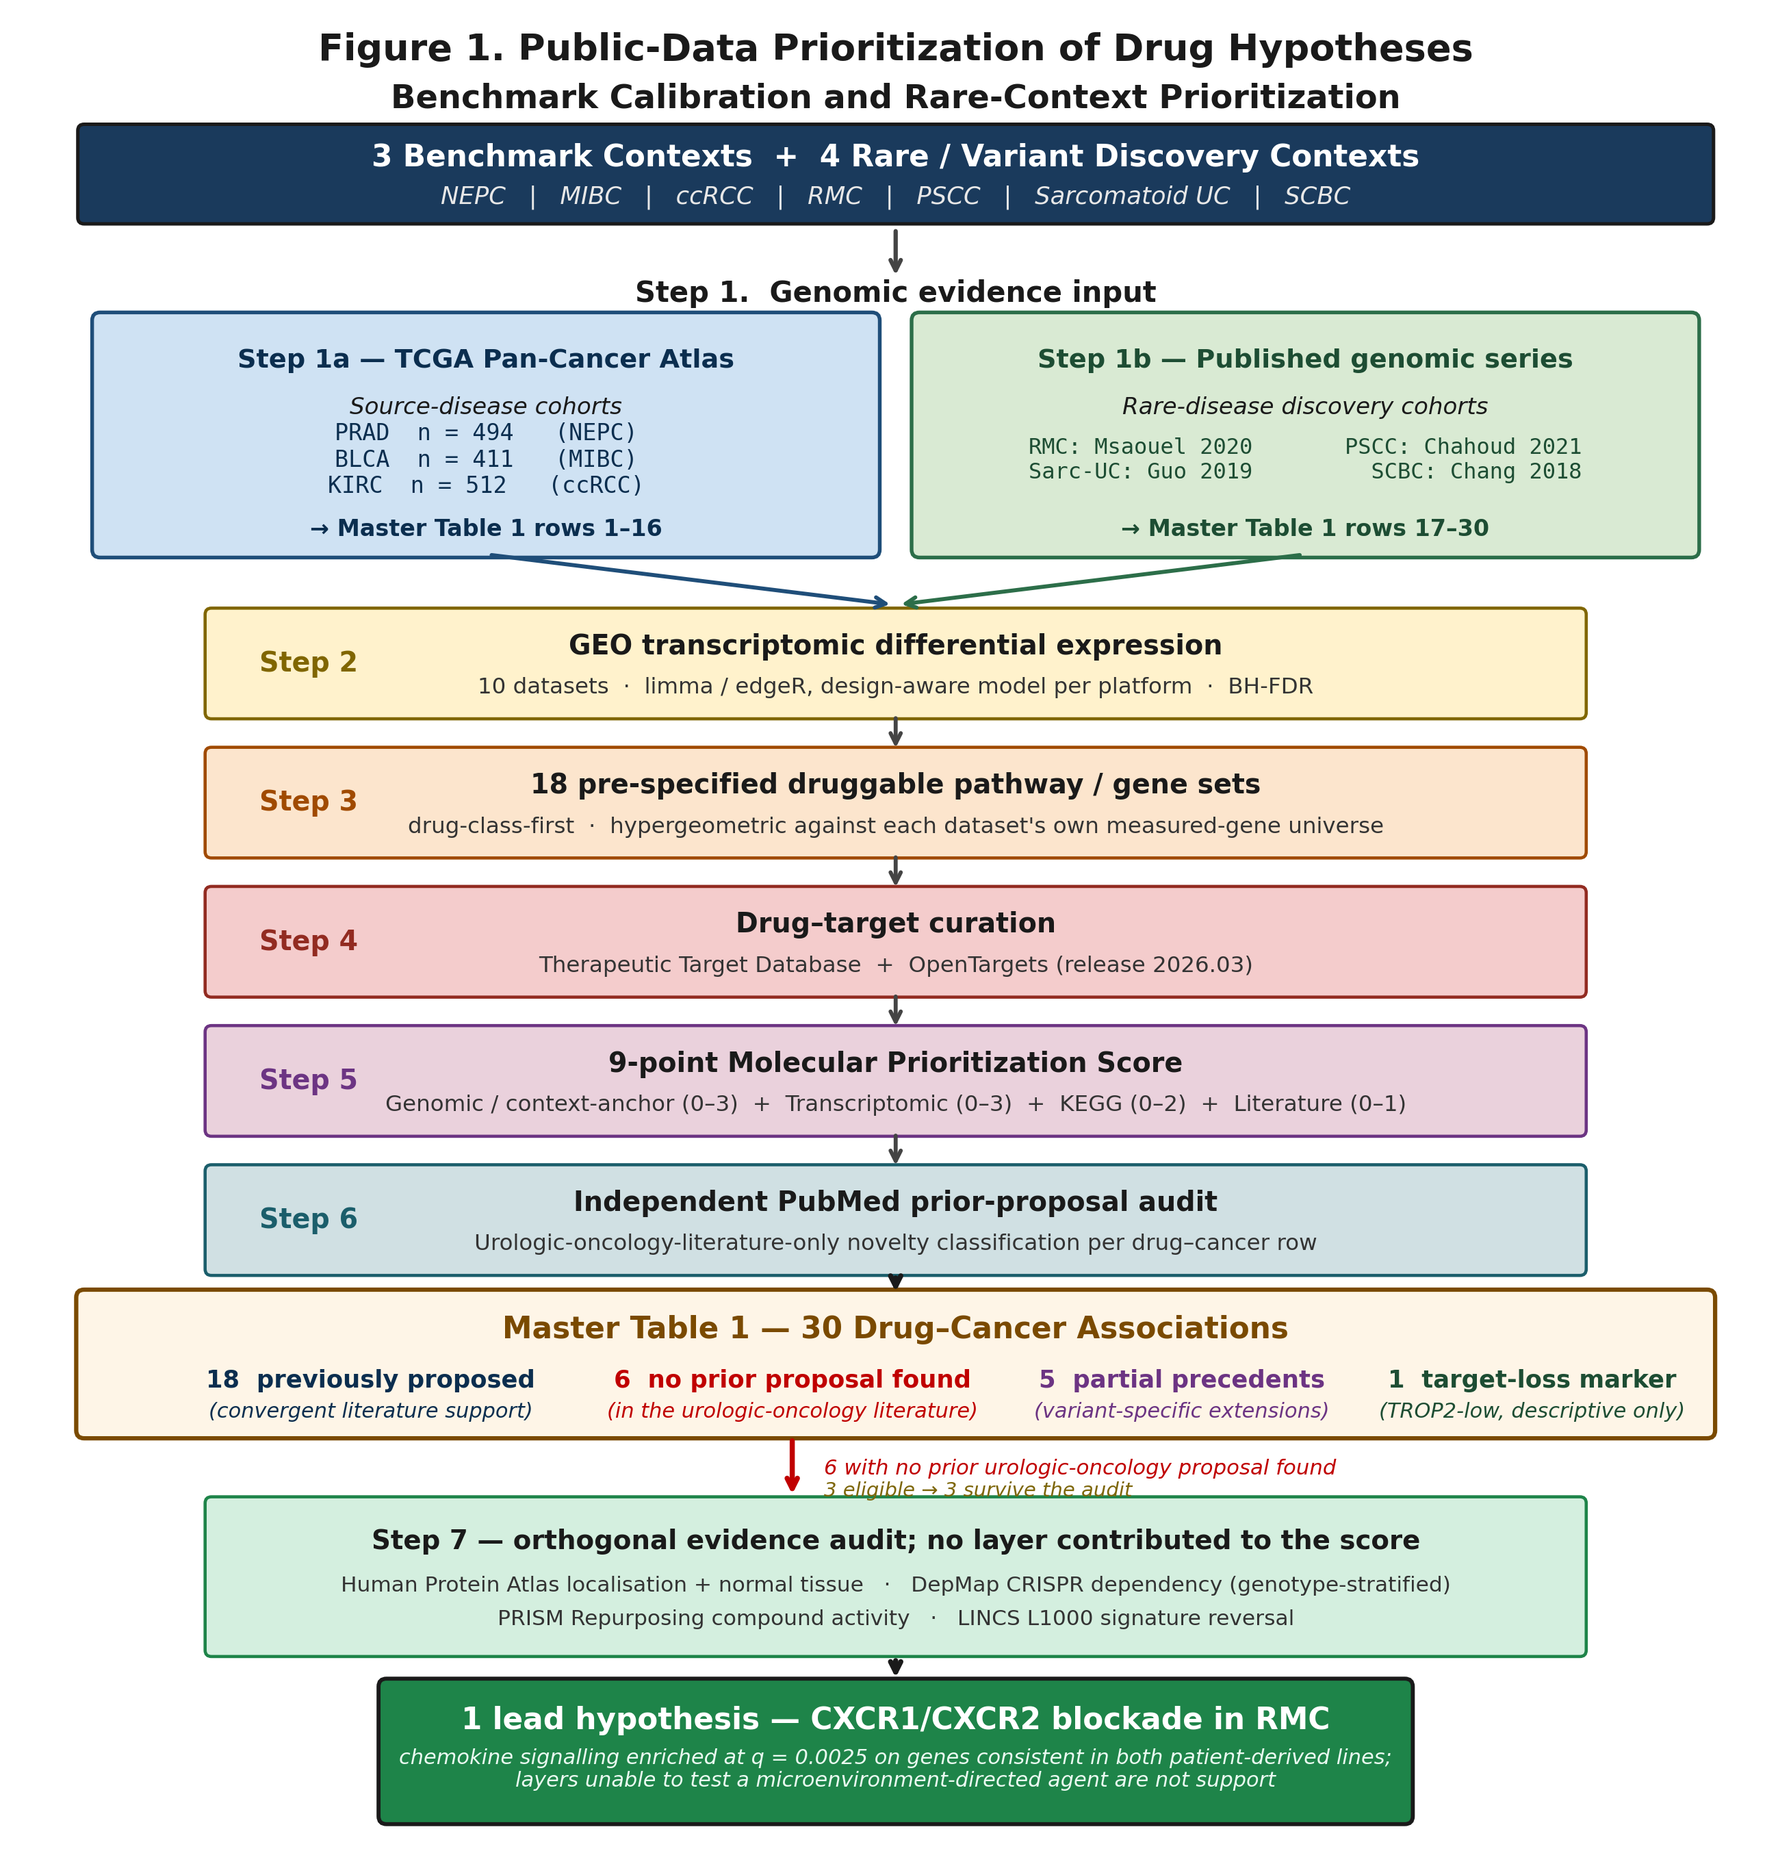
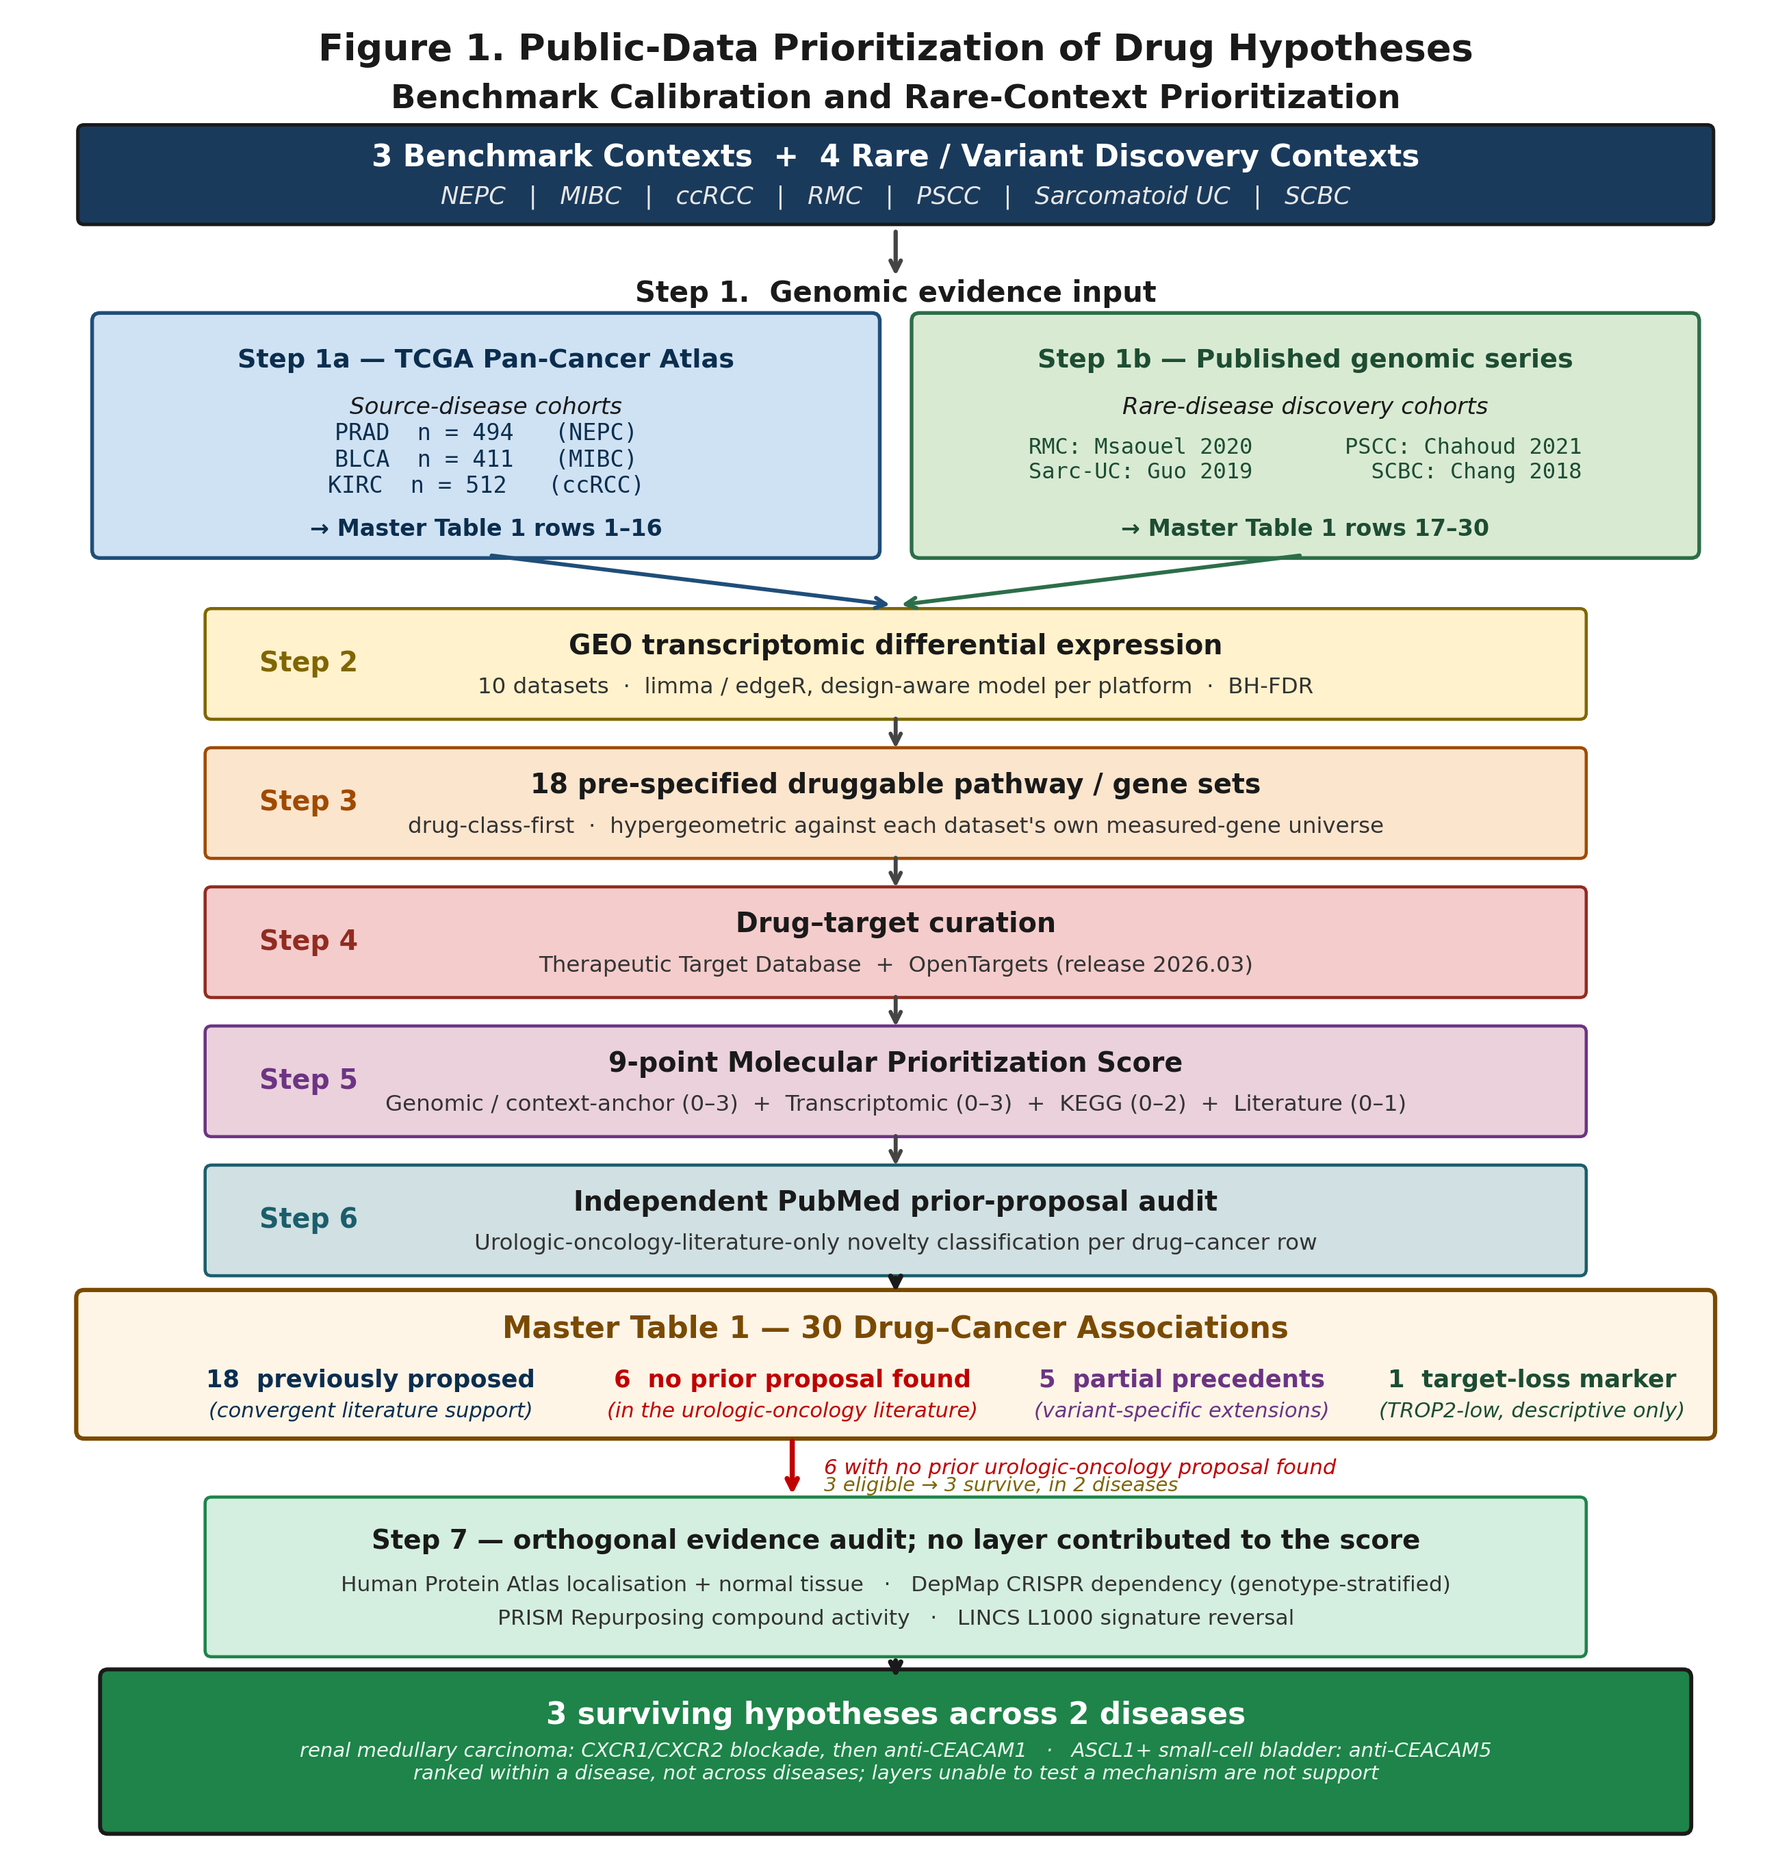
Three surviving hypotheses, ranked within a disease rather than across diseases
The funnel ended at a single lead, chosen by whether the target sits in one of
the eighteen pre-specified gene sets. Section 3.6 of the manuscript exists to
argue that panel coverage is a property of this framework rather than of the
biology - DLL3 is invisible to it for exactly that reason - so using panel
membership to crown one candidate over a candidate in a different disease
applied the artifact the paper identifies as its principal limitation.

It was also inconsistent with itself: the selection code still broke ties on
normal-tissue expression after the manuscript had stopped using that comparison,
on the grounds that organ RNA cannot rank a myeloid-directed antagonist against
an antibody.

Candidates are now ranked only within a disease, where they compete for the same
experimental effort, and not across diseases. Three hypotheses survive in two
diseases: in renal medullary carcinoma, CXCR1/CXCR2 blockade first (its target
lies in an enriched pathway) then anti-CEACAM1; in ASCL1-positive small-cell
bladder cancer, anti-CEACAM5 conjugates, which are not in competition with
either.

Figure 1 and Figure 5 now end at three surviving hypotheses across two diseases,
Table 1 reports the renal medullary ordering rather than a global lead, and the
abstract and conclusions say so. The candidate-selection table records each
survivor's rank within its own context.

Document audit 69/69, including three new checks that no cross-disease ranking
is claimed.

diff --git a/code/pipeline/48_build_manuscript_v29.py b/code/pipeline/48_build_manuscript_v29.py
@@ -149,11 +149,9 @@ P(f"Results. The frozen set of {F['n_associations']} associations was "
   f"scoreable: "
   f"{F['tiers'].get('Strong', 0)} Strong-tier, {F['tiers'].get('Moderate', 0)} "
   f"Moderate-tier and {F['tiers'].get('Exploratory', 0)} Exploratory-tier. "
-  f"The remaining {F['n_not_scored']}, all from one series in which histology "
-  f"is completely aliased with array chip, are reported descriptively and "
-  f"given no score, including a candidate target-loss marker (trophoblast "
-  f"cell-surface antigen 2, log\u2082 fold change "
-  f"{de['TACSTD2_sarc']['log2FC']:+.2f}). "
+  f"The remaining {F['n_not_scored']}, from one series in which histology is "
+  f"completely aliased with array chip, are unscored and reported "
+  f"descriptively. "
   f"{F['n_previously_proposed']} recovered priorities proposed independently "
   f"elsewhere. {F['n_framework_novel']} had no prior urologic-oncology proposal "
   f"identified; of these, {F['funnel']['eligible']} met eligibility and "
@@ -162,12 +160,13 @@ P(f"Results. The frozen set of {F['n_associations']} associations was "
   f"forward.")
 P(f"Conclusion. A public-data framework can prioritize biomarker-matched drug "
   f"hypotheses where prospective evidence will not otherwise exist, provided it "
-  f"reports what it cannot support. CXCR1/CXCR2 blockade in renal medullary "
-  f"carcinoma is the highest-priority experimental hypothesis it produces "
-  f"(chemokine signaling q = {q['rmc_chemokine']:.4f}), but the dependency and "
-  f"compound screens cannot test a microenvironment-directed mechanism, so "
-  f"their silence is not support. All candidates require disease-specific "
-  f"validation.")
+  f"reports what it cannot support. {F['funnel']['survive']} hypotheses survive "
+  f"across {F['n_survivor_contexts']} diseases: CXCR1/CXCR2 blockade and "
+  f"anti-CEACAM1 in renal medullary carcinoma, and anti-CEACAM5 conjugates in "
+  f"ASCL1-positive small-cell bladder cancer. They are ranked within a disease "
+  f"but not across diseases, because the only criterion that would order them "
+  f"is a property of the framework rather than of the biology. All require "
+  f"disease-specific validation.")
 
 # =====================================================================
 # Introduction
@@ -482,7 +481,7 @@ P(f"Signature reversal against the LINCS L1000 libraries [52,53] was recomputed 
   f"therefore remains uninformative here, for a more specific reason than "
   f"before.")
 
-H('3.5 The Shortlist', 11.5, 10)
+H('3.5 The Surviving Hypotheses', 11.5, 10)
 P(f"Applying the rule set out above (Figure 5), the "
   f"{F['funnel']['framework_novel']} associations without a prior "
   f"urologic-oncology proposal reduce to {F['funnel']['eligible']} eligible and "
@@ -496,7 +495,18 @@ P(f"Applying the rule set out above (Figure 5), the "
   f"and DepMap independently contradicts it. The survivors span two "
   f"diseases, renal medullary carcinoma and ASCL1-positive small-cell "
   f"bladder cancer.")
-P(f"CXCR1/CXCR2 blockade is the lead candidate. It scores {lead['total']}/9, its "
+P(f"The three survivors are not ranked against one another across diseases. "
+  f"Two are in renal medullary carcinoma, where they compete for the same "
+  f"experimental effort and can be ordered; the third is in ASCL1-positive "
+  f"small-cell bladder cancer and is not in competition with them at all. The "
+  f"only criterion that could order candidates across diseases is whether the "
+  f"target happens to lie in one of the eighteen pre-specified sets, and "
+  f"Section 3.6 shows that panel coverage is a property of this framework "
+  f"rather than of the underlying biology. Ranking across contexts on that "
+  f"basis would apply the very artifact the framework is shown to suffer "
+  f"from.")
+P(f"Within renal medullary carcinoma, CXCR1/CXCR2 blockade is the one to carry "
+  f"forward first. It scores {lead['total']}/9, its "
   f"chemokine axis is elevated consistently in both patient-derived lines, its "
   f"target lies in a pathway that is itself enriched "
   f"(q = {q['rmc_chemokine']:.4f}) rather than borrowing an enrichment driven by "
@@ -898,7 +908,7 @@ for _, r in novel_rows.sort_values('N').iterrows():
                 f"(q = {de['SSTR2_neurod1']['q']:.3f}), and no enriched pathway "
                 'contains the target',
         }
-        status = ('LEAD HYPOTHESIS' if int(r['N']) == 17 else
+        status = ('Survives; first priority within RMC' if int(r['N']) == 17 else
                   'Survives the audit' if bool(srow['survives']) else
                   PLAIN.get(int(r['N']),
                             'Excluded: ' + str(srow['failed_criteria'])))

diff --git a/code/pipeline/12_generate_figures.py b/code/pipeline/12_generate_figures.py
@@ -37,8 +37,8 @@ plt.rcParams.update({
 # =====================================================================
 def generate_figure1():
     print("Generating Figure 1: pipeline schematic")
-    fig, ax = plt.subplots(figsize=(11, 11.45))
-    ax.set_xlim(0, 11); ax.set_ylim(-2.45, 9.0); ax.axis('off')
+    fig, ax = plt.subplots(figsize=(11, 11.55))
+    ax.set_xlim(0, 11); ax.set_ylim(-2.55, 9.0); ax.axis('off')
 
     ax.text(5.5, 8.75,
             'Figure 1. Public-Data Prioritization of Drug Hypotheses',
@@ -187,7 +187,7 @@ def generate_figure1():
     ax.text(5.05, -0.16, '6 with no prior urologic-oncology proposal found',
             ha='left', va='center', fontsize=7.4, style='italic',
             color='#c00000')
-    ax.text(5.05, -0.30, '3 eligible \u2192 3 survive the audit',
+    ax.text(5.05, -0.27, '3 eligible \u2192 3 survive, in 2 diseases',
             ha='left', va='center', fontsize=7.0, style='italic', color='#7d6608')
 
     ax.add_patch(FancyBboxPatch((1.20, -1.31), 8.60, 0.93,
@@ -209,17 +209,18 @@ def generate_figure1():
     ax.annotate('', xy=(5.5, -1.52), xytext=(5.5, -1.34),
                 arrowprops=dict(arrowstyle='->', lw=1.8, color='#1a1a1a'))
 
-    ax.add_patch(FancyBboxPatch((2.30, -2.36), 6.40, 0.82,
+    ax.add_patch(FancyBboxPatch((0.55, -2.42), 9.90, 0.94,
                                  boxstyle='round,pad=0.05',
                                  ec='#1a1a1a', fc='#1e8449', linewidth=1.4))
-    ax.text(5.50, -1.75, '1 lead hypothesis — CXCR1/CXCR2 blockade in RMC',
+    ax.text(5.50, -1.72, '3 surviving hypotheses across 2 diseases',
             ha='center', va='center', fontsize=10.5, weight='bold',
             color='white')
-    ax.text(5.50, -2.06,
-            'chemokine signalling enriched at q = 0.0025 on genes consistent in both '
-            'patient-derived lines;\nlayers unable to test a microenvironment-directed '
-            'agent are not support',
-            ha='center', va='center', fontsize=7.3, style='italic',
+    ax.text(5.50, -2.02,
+            'renal medullary carcinoma: CXCR1/CXCR2 blockade, then anti-CEACAM1   '
+            '\u00b7   ASCL1+ small-cell bladder: anti-CEACAM5\n'
+            'ranked within a disease, not across diseases; layers unable to test a '
+            'mechanism are not support',
+            ha='center', va='center', fontsize=7.0, style='italic',
             color='#eafaf1')
 
     plt.savefig(FIGURES / 'Figure1_pipeline.png', bbox_inches='tight')

diff --git a/code/pipeline/41_candidate_selection.py b/code/pipeline/41_candidate_selection.py
@@ -185,16 +185,27 @@ for _, r in out.iterrows():
 surv = out[out['survives']]
 print(f"\n{len(out)} framework-novel -> {int(out['eligible'].sum())} eligible "
       f"-> {len(surv)} survive")
-lead_pool = surv[surv['target_in_enriched_pathway']]
-print(f"  of which the target itself lies in an enriched pathway: {len(lead_pool)}")
-if len(lead_pool):
-    lead = lead_pool.sort_values('normal_tissue_nTPM_organ_of_origin',
-                                 na_position='last').iloc[0]
-    print(f"\nlead candidate: row {lead['N']} - {lead['Target']}")
-    print(f"  pathway q = {lead['pathway_q']:.4g}; normal-tissue nTPM in the organ "
-          f"of origin = {lead['normal_tissue_nTPM_organ_of_origin']}")
-    for _, r in surv.iterrows():
-        if r['N'] != lead['N']:
-            print(f"  second survivor: row {r['N']} - {r['Target']} "
-                  f"(nTPM {r['normal_tissue_nTPM_organ_of_origin']})")
+out['context_priority'] = ''
+for ctx, g in surv.groupby('Context'):
+    ranked = g.sort_values(['target_in_enriched_pathway', 'total'],
+                           ascending=[False, False])
+    for rank, (_, r) in enumerate(ranked.iterrows(), 1):
+        out.loc[out['N'] == r['N'], 'context_priority'] = \
+            f'{rank} of {len(ranked)} in {ctx}'
+out.to_csv(RF / 'CANDIDATE_SELECTION.csv', index=False)
+
+print(f"\n{len(surv)} surviving hypotheses in "
+      f"{surv['Context'].nunique()} diseases, ranked only within a disease:")
+for ctx, g in surv.groupby('Context'):
+    ranked = g.sort_values(['target_in_enriched_pathway', 'total'],
+                           ascending=[False, False])
+    print(f"  {ctx}:")
+    for rank, (_, r) in enumerate(ranked.iterrows(), 1):
+        why = ('target lies in an enriched pathway'
+               if r['target_in_enriched_pathway']
+               else 'no enrichment contains the target')
+        print(f"    {rank}. row {int(r['N'])} {str(r['Target'])[:32]:<34} "
+              f"{r['total']}/9  ({why})")
+print("  not ranked across diseases: the only criterion that could do so is "
+      "panel\n  membership, which Section 3.6 identifies as a framework artifact.")
 print(f"\nwrote {RF / 'CANDIDATE_SELECTION.csv'}")

diff --git a/code/pipeline/42_figure5_selection_v29.py b/code/pipeline/42_figure5_selection_v29.py
@@ -129,6 +129,7 @@ axA.set_xlim(0, 10); axA.set_ylim(0, 10); axA.axis('off')
 n_novel = len(sel)
 n_elig = int(sel['eligible'].sum())
 n_surv = int(sel['survives'].sum())
+n_ctx = int(sel[sel['survives']]['Context'].nunique())
 STAGES = [
     (8.5, 9.5, 10.4, f'{n_assoc} drug\u2013cancer associations', '#1a3a5c',
      'across seven contexts'),
@@ -138,8 +139,8 @@ STAGES = [
      'estimable contrast, Moderate tier or better, q < 0.05, agent available'),
     (2.2, 6.0, 10.0, f'{n_surv} survive the audit', '#7d6608',
      'no contradicting layer; access matches modality'),
-    (0.2, 5.0, 10.4, '1 lead hypothesis', '#1e8449',
-     'CXCR1/CXCR2 blockade in RMC'),
+    (0.2, 5.0, 9.4, f'{n_surv} hypotheses, {n_ctx} diseases', '#1e8449',
+     'ranked within a disease, not across diseases'),
 ]
 for i, (y, w, fs, label, fc, sub) in enumerate(STAGES):
     x0 = 5 - w / 2
@@ -217,7 +218,7 @@ plt.savefig(out, bbox_inches='tight')
 plt.close()
 print(f"Saved {out} ({out.stat().st_size:,} bytes)")
 print(f"  {n_assoc} associations -> {n_novel} framework-novel -> {n_elig} "
-      f"eligible -> {n_surv} survive -> 1 lead")
+      f"eligible -> {n_surv} survive in {n_ctx} diseases")
 for _, r in sel.iterrows():
     print(f"    row {int(r['N']):<3} {'SURVIVES' if r['survives'] else 'excluded':<9} "
           f"{r['failed_criteria'][:60]}")

diff --git a/code/pipeline/49_audit_manuscript_v29.py b/code/pipeline/49_audit_manuscript_v29.py
@@ -181,7 +181,14 @@ for _, r in sel.iterrows():
     tgt = str(r['Target']).split('(')[0].split('/')[0].strip()
     if r['survives']:
         check(f'survivor {tgt} appears in the text', tgt.split()[0] in text)
-check('lead named as CXCR1/CXCR2', 'CXCR1/CXCR2 blockade is the lead candidate' in text)
+check('within-disease priority named, not a global lead',
+      'first priority within RMC' in text
+      or 'the one to carry forward first' in text)
+check('no cross-disease ranking claimed',
+      'not ranked against one another across diseases' in text)
+check('three survivors across two diseases stated',
+      'across 2 diseases' in text or 'across two diseases' in text
+      or f"{F['n_survivor_contexts']} diseases" in text)
 check('lead hedged as hypothesis not finding',
       'not a validated finding' in text)
 

diff --git a/code/pipeline/47_manuscript_facts.py b/code/pipeline/47_manuscript_facts.py
@@ -68,8 +68,10 @@ F['per_context'] = defs['Context'].value_counts().to_dict()
 F['funnel'] = {'framework_novel': int(len(sel)),
                'eligible': int(sel['eligible'].sum()),
                'survive': int(sel['survives'].sum())}
+F['n_survivor_contexts'] = int(sel[sel['survives']]['Context'].nunique())
 F['survivors'] = [{'N': int(r['N']), 'target': r['Target'], 'drug': r['Drug'],
                    'total': int(r['total']), 'context': r['Context'],
+                   'target_in_enriched': bool(r['target_in_enriched_pathway']),
                    'nTPM': None if pd.isna(r['normal_tissue_nTPM_organ_of_origin'])
                    else float(r['normal_tissue_nTPM_organ_of_origin'])}
                   for _, r in sel[sel['survives']].iterrows()]
